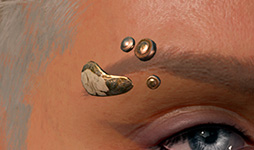
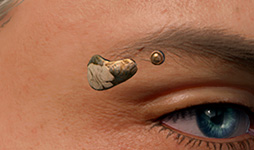
final images

diff --git a/src/data.js b/src/data.js
@@ -129,7 +129,7 @@ export const data = [
     bone: "piercing_brow_a_r",
     location: "brows",
     nodeid: "6e9e5bb1-68b1-41a2-b22d-e117151abec6",
-    imgurl: "assets/images/barb-bear-stubs.jpg",
+    imgurl: "assets/images/barb-bear-stubs-r.jpg",
     selected: false,
     disabled: false,
     matcat: "barbarian",
@@ -146,7 +146,7 @@ export const data = [
     bone: "piercing_brow_a_l",
     location: "brows",
     nodeid: "9f144714-747f-4a8d-b9c8-72da46813606",
-    imgurl: "assets/images/barb-bear-stubs.jpg",
+    imgurl: "assets/images/barb-bear-stubs-l.jpg",
     selected: false,
     disabled: false,
     matcat: "barbarian",

diff --git a/src/components/PiercingsBlock.jsx b/src/components/PiercingsBlock.jsx
@@ -51,7 +51,8 @@ export default function Piercing(props) {
                   prc.bone === "piercing_brow_a_l" ||
                   prc.bone === "piercing_lobe_b_l" ||
                   prc.bone === "piercing_tragus_a_l" ||
-                  prc.bone === "beard_upper_lip1_l") &&
+                  prc.bone === "beard_upper_lip1_l" ||
+                  prc.bone === "piercing_brow_b_l") &&
                 "flipped"
               }
             />
